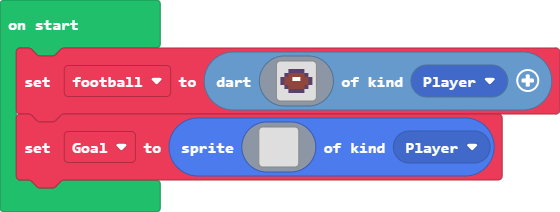
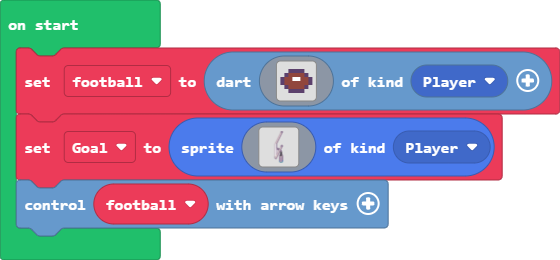
Update main.blocks, main.ts

diff --git a/main.ts b/main.ts
@@ -1,19 +1,68 @@
 let football = darts.create(assets.image`myImage`, SpriteKind.Player)
 let Goal = sprites.create(img`
-    . . . . . . . . . . . . . . . . 
-    . . . . . . . . . . . . . . . . 
-    . . . . . . . . . . . . . . . . 
-    . . . . . . . . . . . . . . . . 
-    . . . . . . . . . . . . . . . . 
-    . . . . . . . . . . . . . . . . 
-    . . . . . . . . . . . . . . . . 
-    . . . . . . . . . . . . . . . . 
-    . . . . . . . . . . . . . . . . 
-    . . . . . . . . . . . . . . . . 
-    . . . . . . . . . . . . . . . . 
-    . . . . . . . . . . . . . . . . 
-    . . . . . . . . . . . . . . . . 
-    . . . . . . . . . . . . . . . . 
-    . . . . . . . . . . . . . . . . 
-    . . . . . . . . . . . . . . . . 
+    .............cc.
+    ............cbbc
+    ............cbbc
+    ...........bdcc.
+    ...........bdbb.
+    ..........bddc..
+    ..........bdbb..
+    .........bddc...
+    .........bdbb...
+    ........bddc....
+    ........bdbb....
+    .......bddc.....
+    .......bdbb.....
+    ......bddc......
+    ......bdbb......
+    .....bddc.......
+    .....bdbb.......
+    ....bddc........
+    ....bdbb........
+    ...bddc.........
+    ...bdbb.........
+    ..bddc..........
+    ..bdbb..........
+    .bddc...........
+    .bdbb...........
+    b1dc............
+    b11c............
+    b11c............
+    b11c.........cc.
+    b11c........cbbc
+    b11c........cbbc
+    b11c.......bdcc.
+    b11c.......bdbb.
+    b11c......bddc..
+    b11bccc...bdbb..
+    b11bbbbcccddc...
+    b11bcccbccdbb...
+    b11b..ccbddc....
+    b11b...ccdbbc...
+    b11b...bddcbc...
+    b11b...bdbbcbc..
+    b11b..bddc.fbc..
+    b11b..bdbb.fbf..
+    b11b.bddc..fcf..
+    b11b.bdbb..fcf..
+    b11bbddc...fcf..
+    b11bbdbb...fcf..
+    b11bddc...cfcfc.
+    b11ddbb..cbfcfbc
+    b1dddc...cdfffdc
+    b1ddbb...cdcfcdc
+    cdddc....cbdddbc
+    cddbb....cbbbbbc
+    cddc.....cbbbbbc
+    cdbb.....cbbbbbc
+    .cc......cbbbbbc
+    .........cbbbbbc
+    .........cbbbbbc
+    .........cbbbbbc
+    .........8bbbbb8
+    .........8bbbbb8
+    .........6bbbbb6
+    ..........6bbb6.
+    ...........666..
     `, SpriteKind.Player)
+football.controlWithArrowKeys()
